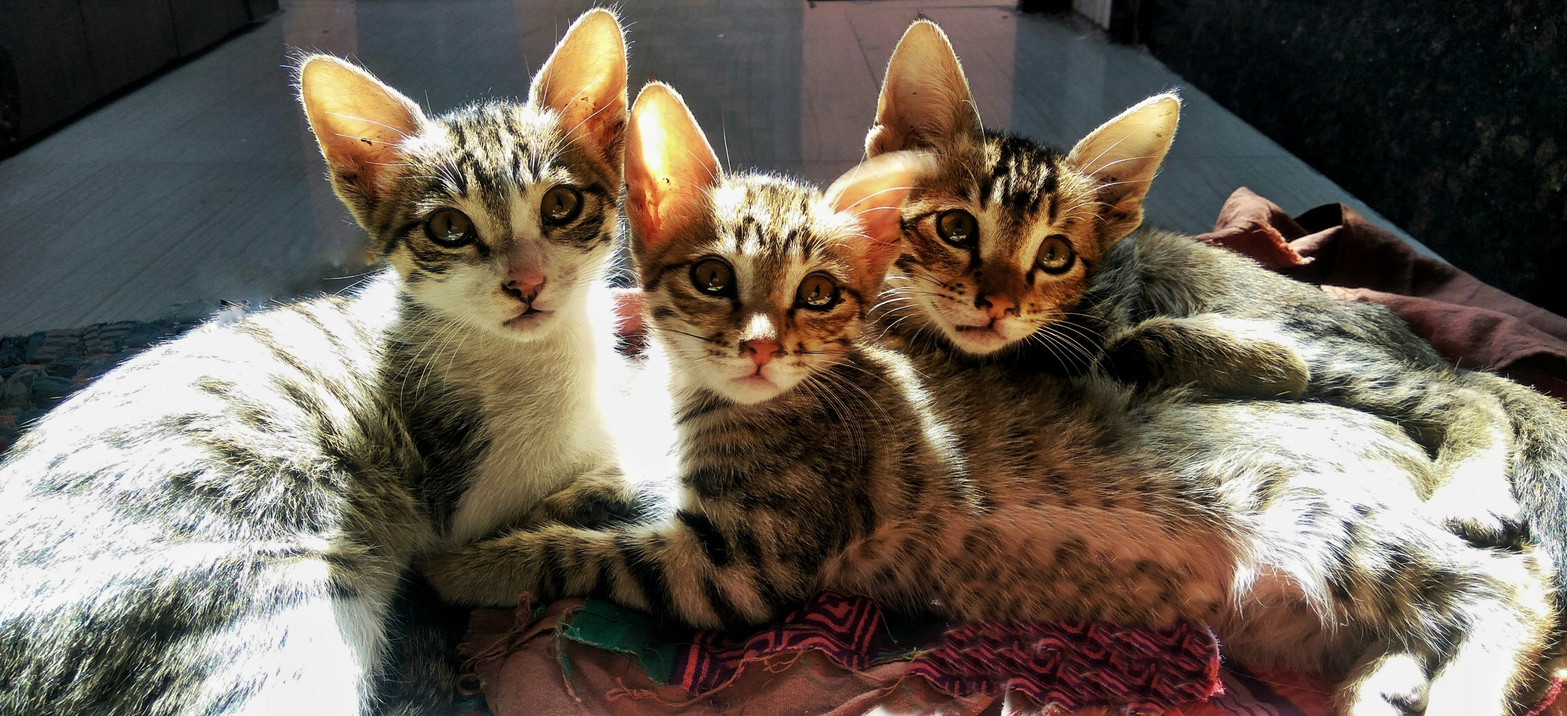
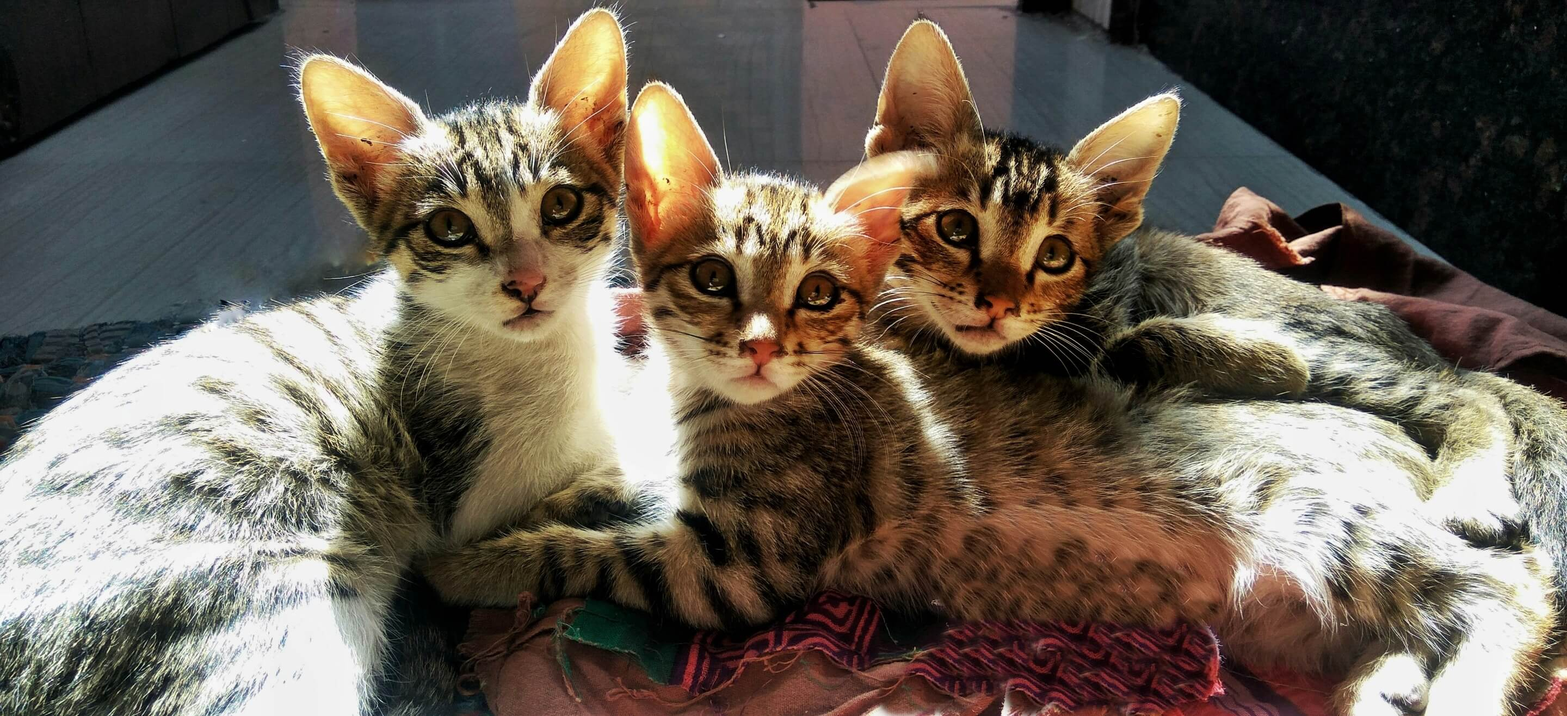
ajustes imagens e comprimir elas

diff --git a/index.html b/index.html
@@ -68,7 +68,7 @@
     </header>
     <main>
         <section class="section-inicio">
-            <img src="assets/background-inicio.png" alt="" class="background-inicio">
+            <img src="assets/background-inicio.jpg" alt="" class="background-inicio">
             <div class="container-inicio">
                 <h1>Salvando vidas e preparando animais para lares responsáveis</h1>
                 <button class="btn-ajude-causa"><a href="pages/ajude.html">Ajude a nossa causa</a></button>
@@ -141,7 +141,7 @@
 
                     <swiper-slide id="Adina">
                         <div class="box-imagem">
-                            <img src="assets/AnimaisParaAdotar/Adina.png" alt="" class="imagem-animal">
+                            <img src="assets/AnimaisParaAdotar/Adina.jpg" alt="" class="imagem-animal">
 
                             <div class="icon-animal">
 
